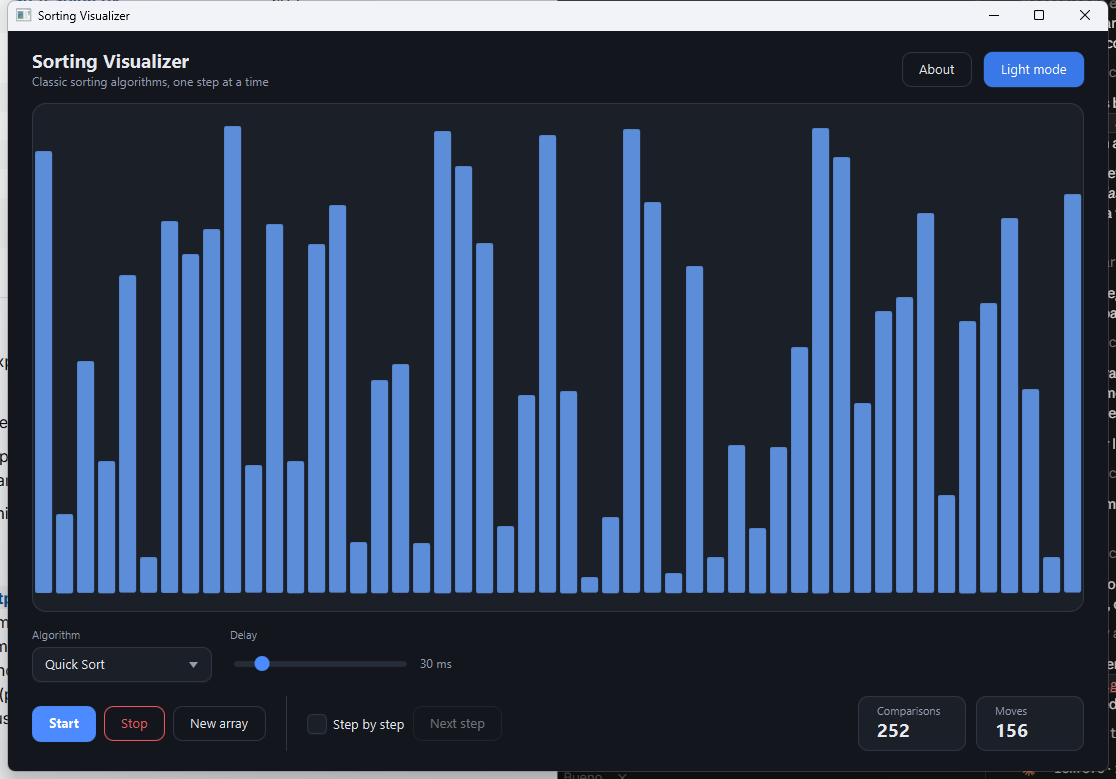
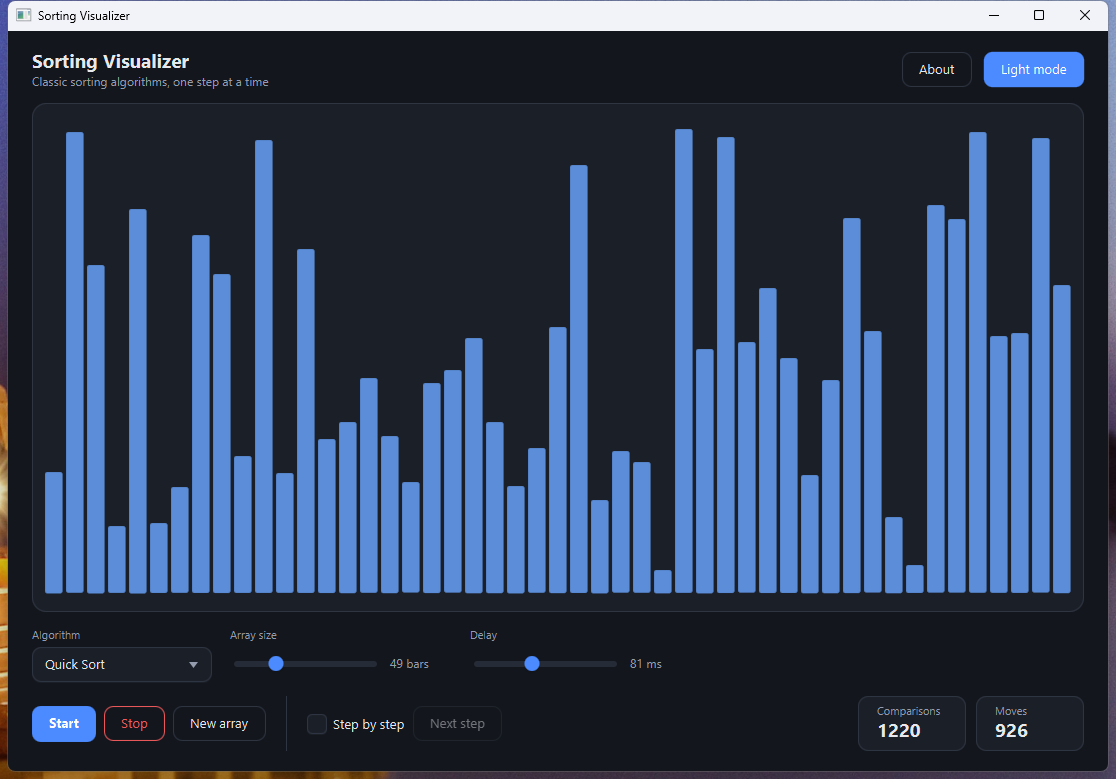
Let the array size be chosen from the interface
The bar count was a constant, so the one thing a visualizer of sorting
algorithms most obviously wants to vary was the one thing it could not.
It is now a slider on the setup row, 10 to 150, default 50.

Two details that needed care:

The gap between bars had to stop being fixed. At 3px and 150 bars it ate
more than 40% of the width, leaving bars thinner than the spaces between
them. It is now min(3px, quarter of a slot), so it shrinks with the bars
and the drawing stays readable at either end of the range.

The slider rebuilds the array, which means reacting to every tick of a drag
would reshuffle the bars sixty times a second. It waits for the value to
settle instead, through valueChangingProperty, and ignores a change that
lands on the count it already holds.

The size control is disabled during a run like the rest of the setup, so a
sort cannot have the array replaced underneath it.

Verified in the app at both ends: 13 bars are fat and evenly spaced, 150 are
thin but still distinct, and a Quick Sort over 150 completes correctly at
1220 comparisons and 926 moves with the control greyed out while it runs.

The previews showed a two-field control row and now show three, so hero,
light-mode, dark-mode and the step-by-step gif were recaptured. sort.gif
frames only the bars, so it still holds.

diff --git a/src/main/resources/base.css b/src/main/resources/base.css
@@ -99,7 +99,7 @@
 .slider-value {
     -fx-font-size: 12px;
     -fx-text-fill: -sv-text-muted;
-    -fx-min-width: 48;
+    -fx-min-width: 62;
 }
 
 .button-group {

diff --git a/src/main/java/app/controller/SortController.java b/src/main/java/app/controller/SortController.java
@@ -68,6 +68,10 @@ public class SortController extends VBox {
     private final CheckBox stepModeCheck = new CheckBox("Step by step");
     private final ComboBox<String> algorithmSelector = new ComboBox<>();
     private final Slider speedSlider = new Slider(1, 200, 30);
+    private final Slider sizeSlider = new Slider(
+            SortingVisualizer.MIN_BAR_COUNT,
+            SortingVisualizer.MAX_BAR_COUNT,
+            SortingVisualizer.DEFAULT_BAR_COUNT);
 
     private final SortingVisualizer visualizer;
 
@@ -80,6 +84,7 @@ public class SortController extends VBox {
     private final Label comparisonsLabel = new Label("0");
     private final Label movesLabel = new Label("0");
     private final Label delayLabel = new Label();
+    private final Label sizeLabel = new Label();
 
     public SortController(SortingVisualizer visualizer) {
         this.visualizer = visualizer;
@@ -88,6 +93,7 @@ public class SortController extends VBox {
 
         buildAlgorithmSelector();
         buildSpeedSlider();
+        buildSizeSlider();
         wireActions();
 
         getChildren().addAll(setupRow(), runRow());
@@ -97,7 +103,7 @@ public class SortController extends VBox {
 
     /** Top row: what to run. */
     private HBox setupRow() {
-        HBox row = new HBox(field("Algorithm", algorithmSelector), speedField());
+        HBox row = new HBox(field("Algorithm", algorithmSelector), sizeField(), speedField());
         row.getStyleClass().add("control-row");
         row.setAlignment(Pos.BOTTOM_LEFT);
         return row;
@@ -132,16 +138,24 @@ public class SortController extends VBox {
         return box;
     }
 
-    private VBox speedField() {
-        HBox sliderRow = new HBox(speedSlider, delayLabel);
-        sliderRow.setAlignment(Pos.CENTER_LEFT);
-        sliderRow.getStyleClass().add("slider-row");
-        // Same height as the combo box, so both fields line up on the row.
-        sliderRow.setMinHeight(CONTROL_HEIGHT);
+    private VBox sizeField() {
+        return field("Array size", sliderRow(sizeSlider, sizeLabel));
+    }
 
+    private VBox speedField() {
         // Named "Delay", not "Speed": the value is the pause between frames,
         // so dragging right makes the animation slower, not faster.
-        return field("Delay", sliderRow);
+        return field("Delay", sliderRow(speedSlider, delayLabel));
+    }
+
+    /** A slider with its live readout beside it. */
+    private HBox sliderRow(Slider slider, Label readout) {
+        HBox row = new HBox(slider, readout);
+        row.setAlignment(Pos.CENTER_LEFT);
+        row.getStyleClass().add("slider-row");
+        // Same height as the combo box, so every field lines up on the row.
+        row.setMinHeight(CONTROL_HEIGHT);
+        return row;
     }
 
     /** A counter shown as a caption with its number underneath. */
@@ -179,11 +193,34 @@ public class SortController extends VBox {
     }
 
     private void buildSpeedSlider() {
-        speedSlider.setPrefWidth(180);
+        speedSlider.setPrefWidth(150);
         speedSlider.setCursor(Cursor.HAND);
 
         delayLabel.getStyleClass().add("slider-value");
         delayLabel.textProperty().bind(speedSlider.valueProperty().asString("%.0f ms"));
+    }
+
+    private void buildSizeSlider() {
+        sizeSlider.setPrefWidth(150);
+        sizeSlider.setBlockIncrement(5);
+        sizeSlider.setCursor(Cursor.HAND);
+
+        sizeLabel.getStyleClass().add("slider-value");
+        sizeLabel.textProperty().bind(sizeSlider.valueProperty().asString("%.0f bars"));
+
+        // Rebuild once the value settles, not on every tick of a drag: the
+        // array is regenerated each time, so reacting continuously would
+        // reshuffle the bars sixty times a second.
+        sizeSlider.valueProperty().addListener((property, was, now) -> {
+            if (!sizeSlider.isValueChanging()) {
+                visualizer.setBarCount(now.intValue());
+            }
+        });
+        sizeSlider.valueChangingProperty().addListener((property, was, changing) -> {
+            if (!changing) {
+                visualizer.setBarCount((int) sizeSlider.getValue());
+            }
+        });
     }
 
     private void wireActions() {
@@ -256,6 +293,7 @@ public class SortController extends VBox {
         newArrayButton.setDisable(disabled);
         startButton.setDisable(disabled);
         speedSlider.setDisable(disabled);
+        sizeSlider.setDisable(disabled);
         algorithmSelector.setDisable(disabled);
     }
 

diff --git a/src/main/java/app/view/SortingVisualizer.java b/src/main/java/app/view/SortingVisualizer.java
@@ -19,12 +19,22 @@ import javafx.scene.shape.Rectangle;
  */
 public class SortingVisualizer extends HBox {
 
-    private static final int NUM_BARS = 50;
+    /** How many bars the array starts with. */
+    public static final int DEFAULT_BAR_COUNT = 50;
+
+    /** Range the picker offers. Past ~150 the bars are thinner than the gaps. */
+    public static final int MIN_BAR_COUNT = 10;
+    public static final int MAX_BAR_COUNT = 150;
+
     private static final int MIN_VALUE = 10;
     private static final int MAX_VALUE = 300;
 
-    /** Gap between bars, in pixels. */
-    private static final double GAP = 3;
+    /**
+     * Widest gap between bars. It shrinks with the bars themselves, because a
+     * fixed 3px gap swallows more than 40% of the width once there are 150 of
+     * them.
+     */
+    private static final double MAX_GAP = 3;
 
     /** Never let a bar vanish completely, however small the window. */
     private static final double MIN_BAR_PIXELS = 2;
@@ -41,12 +51,12 @@ public class SortingVisualizer extends HBox {
     /** Added while the algorithm holds a bar: a pivot, or the current minimum. */
     public static final String MARKED_CLASS = "marked";
 
+    private int barCount = DEFAULT_BAR_COUNT;
     private int[] values;
     private Rectangle[] bars;
 
     public SortingVisualizer() {
         getStyleClass().add("visualizer");
-        setSpacing(GAP);
         setAlignment(Pos.BOTTOM_CENTER);
 
         // Let the parent shrink us; without this the fixed bar widths would
@@ -61,18 +71,18 @@ public class SortingVisualizer extends HBox {
     }
 
     private void generateRandomArray() {
-        values = new int[NUM_BARS];
+        values = new int[barCount];
         Random rand = new Random();
-        for (int i = 0; i < NUM_BARS; i++) {
+        for (int i = 0; i < barCount; i++) {
             values[i] = MIN_VALUE + rand.nextInt(MAX_VALUE - MIN_VALUE + 1);
         }
     }
 
     private void createBars() {
-        bars = new Rectangle[NUM_BARS];
+        bars = new Rectangle[barCount];
         getChildren().clear();
 
-        for (int i = 0; i < NUM_BARS; i++) {
+        for (int i = 0; i < barCount; i++) {
             Rectangle bar = new Rectangle();
             bar.getStyleClass().add(BAR_CLASS);
             bars[i] = bar;
@@ -83,16 +93,15 @@ public class SortingVisualizer extends HBox {
 
     /** Recomputes every bar from the current size of the row. */
     private void resizeBars() {
-        double barWidth = barWidth();
+        double slot = getWidth() / barCount;
+        double gap = Math.min(MAX_GAP, slot / 4);
+        double barWidth = Math.max(MIN_BAR_PIXELS, slot - gap);
+
+        setSpacing(gap);
         for (int i = 0; i < bars.length; i++) {
             bars[i].setWidth(barWidth);
             bars[i].setHeight(pixelsFor(values[i]));
         }
-    }
-
-    private double barWidth() {
-        double usable = getWidth() - GAP * (NUM_BARS - 1);
-        return Math.max(MIN_BAR_PIXELS, usable / NUM_BARS);
     }
 
     /** Converts a logical value into the height it should occupy right now. */
@@ -112,6 +121,26 @@ public class SortingVisualizer extends HBox {
         for (Rectangle bar : bars) {
             bar.getStyleClass().removeAll(COMPARING_CLASS, MARKED_CLASS);
         }
+    }
+
+    public int getBarCount() {
+        return barCount;
+    }
+
+    /**
+     * Rebuilds the array at a new size. Clamped to the offered range, and a
+     * no-op when the size has not actually changed, so dragging the picker
+     * across a value it already holds does not reshuffle the bars.
+     */
+    public void setBarCount(int count) {
+        int wanted = Math.max(MIN_BAR_COUNT, Math.min(MAX_BAR_COUNT, count));
+        if (wanted == barCount) {
+            return;
+        }
+
+        barCount = wanted;
+        generateRandomArray();
+        createBars();
     }
 
     /** Draws the given value at that position. */

diff --git a/README.md b/README.md
@@ -71,6 +71,8 @@ app, use `./mvnw test`.
   paused.
 - **Watch the cost add up.** Comparisons and moves are counted live, and they
   stay on screen when the run ends so you can actually read them.
+- **Choose how much there is to sort.** Anywhere from 10 to 150 bars. They
+  are redrawn to fit, and the gap between them shrinks along with them.
 - **Set the pace.** A delay of 1 to 200 ms per frame, with a live readout.
 - **Stop whenever.** The array is always left consistent, never half-copied.
 - **Switch themes.** Light and dark, bars included.
